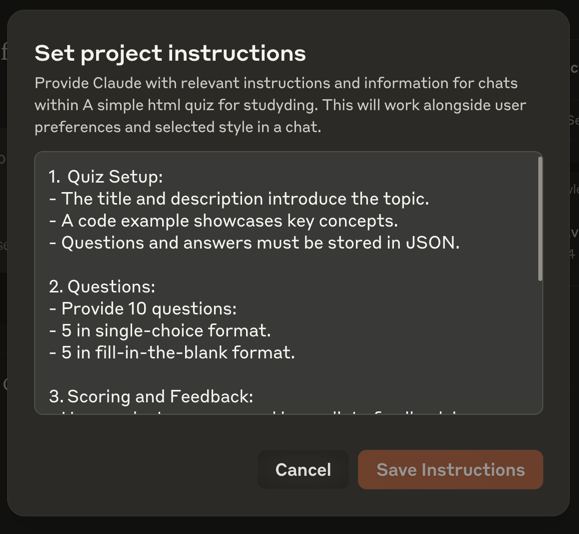
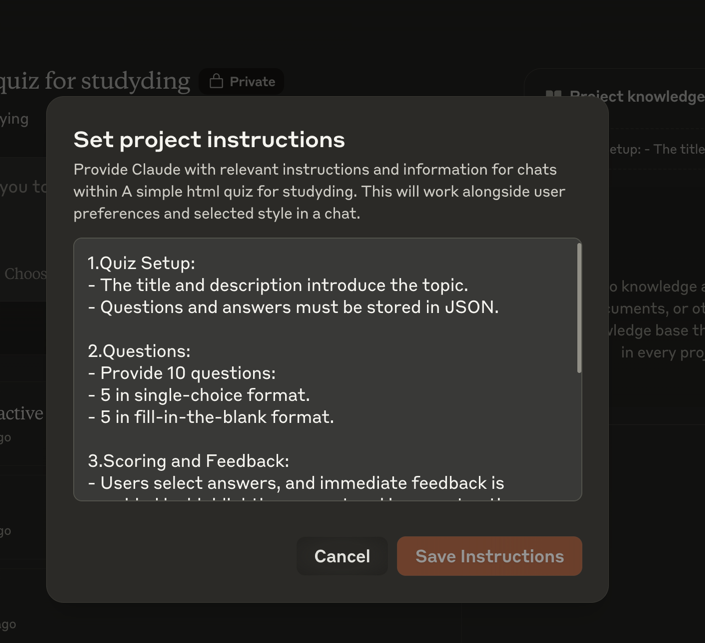
Use english test for example

diff --git a/index.html b/index.html
@@ -8,19 +8,12 @@
             padding: 20px;
             font-family: system-ui, -apple-system, sans-serif;
         }
-        .code-block {
-            background: #f5f5f5;
-            padding: 20px;
-            border-radius: 8px;
-            overflow-x: auto;
-            white-space: pre;
-            font-family: monospace;
-        }
         .question {
             margin: 20px 0;
             padding: 15px;
             border: 1px solid #ddd;
             border-radius: 8px;
+            background: #fff;
         }
         .option {
             margin: 10px 0;
@@ -28,6 +21,7 @@
             border: 1px solid #ddd;
             border-radius: 4px;
             cursor: pointer;
+            transition: background-color 0.3s;
         }
         .option:hover {
             background: #f0f0f0;
@@ -46,16 +40,17 @@
             padding: 15px;
             background: #e9ecef;
             border-radius: 8px;
+            text-align: center;
         }
         .fill-blank {
-            display: inline-block;
-            margin: 0 5px;
+            margin: 10px 0;
         }
         .fill-blank input {
-            width: 150px;
-            padding: 5px;
+            width: 200px;
+            padding: 8px;
             border: 2px solid #ddd;
             border-radius: 4px;
+            margin: 5px 0;
         }
         .check-answer {
             background: #007bff;
@@ -75,130 +70,117 @@
             border-radius: 4px;
             display: none;
         }
+        .hint {
+            color: #666;
+            font-style: italic;
+            margin: 5px 0;
+        }
     </style>
 </head>
 <body>
 <div class="container">
-    <h1>🎯 JavaScript Objects & Prototypes Quiz</h1>
-    <p>Test your understanding of JavaScript Objects, Prototypes, and Modern Class Syntax!</p>
-
-    <div id="code-example" class="code-block">
-class Animal {
-    constructor(name) {
-        this.name = name;
-    }
-
-    speak() {
-        return `${this.name} makes a sound`;
-    }
-}
-
-class Dog extends Animal {
-    constructor(name, breed) {
-        super(name);
-        this.breed = breed;
-    }
-
-    bark() {
-        return "Woof!";
-    }
-}
-
-const max = new Dog("Max", "Poodle");
-    </div>
+    <h1>📚 English Tenses Master Quiz</h1>
+    <p>Test your knowledge of English tenses with this interactive quiz!</p>
     <div id="questions"></div>
     <div id="score"></div>
 </div>
 
 <script>
     const quizData = {
+        "title": "English Tenses Master Quiz",
+        "description": "Test your understanding of English tenses and their usage!",
         "multipleChoice": [
             {
                 "id": 1,
-                "question": "Which notation is most commonly used to access object properties?",
+                "question": "Which tense is used in: 'I have been studying English for five years'?",
                 "options": [
-                    { "id": "a", "text": "Bracket notation" },
-                    { "id": "b", "text": "Dot notation" },
-                    { "id": "c", "text": "Arrow notation" },
-                    { "id": "d", "text": "Colon notation" }
+                    { "id": "a", "text": "Present Perfect" },
+                    { "id": "b", "text": "Present Perfect Continuous" },
+                    { "id": "c", "text": "Past Perfect" },
+                    { "id": "d", "text": "Past Continuous" }
                 ],
-                "correctAnswer": "b"
+                "correctAnswer": "b",
+                "explanation": "Present Perfect Continuous is used for actions that began in the past and continue until now."
             },
             {
                 "id": 2,
-                "question": "What is the main purpose of prototypes in JavaScript?",
+                "question": "Identify the tense: 'By the time she arrived, we had already left.'",
                 "options": [
-                    { "id": "a", "text": "To store private variables" },
-                    { "id": "b", "text": "To implement inheritance" },
-                    { "id": "c", "text": "To create multiple instances" },
-                    { "id": "d", "text": "To define static methods" }
+                    { "id": "a", "text": "Past Simple" },
+                    { "id": "b", "text": "Past Continuous" },
+                    { "id": "c", "text": "Past Perfect" },
+                    { "id": "d", "text": "Present Perfect" }
                 ],
-                "correctAnswer": "b"
+                "correctAnswer": "c",
+                "explanation": "Past Perfect is used for an action completed before another action in the past."
             },
             {
                 "id": 3,
-                "question": "In the code example above, what does 'super(name)' do?",
+                "question": "What tense shows a future plan: 'I am meeting John tomorrow'?",
                 "options": [
-                    { "id": "a", "text": "Creates a new instance" },
-                    { "id": "b", "text": "Calls the parent class constructor" },
-                    { "id": "c", "text": "Sets the name property directly" },
-                    { "id": "d", "text": "Returns the parent class" }
+                    { "id": "a", "text": "Present Continuous" },
+                    { "id": "b", "text": "Simple Present" },
+                    { "id": "c", "text": "Future Simple" },
+                    { "id": "d", "text": "Present Perfect" }
                 ],
-                "correctAnswer": "b"
+                "correctAnswer": "a",
+                "explanation": "Present Continuous can be used for fixed future arrangements."
             },
             {
                 "id": 4,
-                "question": "Which method checks if a property belongs to the object itself and not its prototype chain?",
+                "question": "Which sentence uses the Future Perfect tense?",
                 "options": [
-                    { "id": "a", "text": "hasOwnProperty()" },
-                    { "id": "b", "text": "instanceof" },
-                    { "id": "c", "text": "isPrototypeOf()" },
-                    { "id": "d", "text": "getPrototypeOf()" }
+                    { "id": "a", "text": "I will study tomorrow" },
+                    { "id": "b", "text": "I will have studied for six hours by midnight" },
+                    { "id": "c", "text": "I am going to study" },
+                    { "id": "d", "text": "I will be studying" }
                 ],
-                "correctAnswer": "a"
+                "correctAnswer": "b",
+                "explanation": "Future Perfect describes an action that will be completed before a specific time in the future."
             },
             {
                 "id": 5,
-                "question": "What's true about the 'extends' keyword in class declarations?",
+                "question": "What tense is: 'She was watching TV when the phone rang'?",
                 "options": [
-                    { "id": "a", "text": "It creates a new object" },
-                    { "id": "b", "text": "It implements interfaces" },
-                    { "id": "c", "text": "It sets up prototype inheritance" },
-                    { "id": "d", "text": "It copies all properties" }
+                    { "id": "a", "text": "Past Simple" },
+                    { "id": "b", "text": "Past Continuous" },
+                    { "id": "c", "text": "Past Perfect" },
+                    { "id": "d", "text": "Present Continuous" }
                 ],
-                "correctAnswer": "c"
+                "correctAnswer": "b",
+                "explanation": "Past Continuous is used for an action in progress when another action interrupted it."
             }
         ],
         "fillInBlank": [
             {
                 "id": 6,
-                "question": "To access a property using bracket notation, you write: user[_____]",
-                "correctAnswer": "key",
-                "hint": "It's often a variable containing the property name"
+                "question": "Complete with the correct form of 'to work': He _____ for this company since 2010. (Present Perfect)",
+                "correctAnswer": "has worked",
+                "hint": "Use Present Perfect for actions starting in the past and continuing to the present"
             },
             {
                 "id": 7,
-                "question": "The _____ keyword is used to define a new class in modern JavaScript.",
-                "correctAnswer": "class",
-                "hint": "It's the starting keyword for class declarations"
+                "question": "Use 'to study': When she called, I _____ for my exam. (Past Continuous)",
+                "correctAnswer": "was studying",
+                "hint": "Past Continuous describes an action in progress at a specific time in the past"
             },
             {
                 "id": 8,
-                "question": "The _____ method is called automatically when creating a new class instance.",
-                "correctAnswer": "constructor",
-                "hint": "It initializes new object instances"
+                "question": "Complete with 'to go': By next month, I _____ to ten different countries. (Future Perfect)",
+                "correctAnswer": "will have gone",
+                "hint": "Future Perfect is for actions that will be completed before a future time"
             },
             {
                 "id": 9,
-                "question": "Object._____(animal) returns true if the object inherits from animal.",
-                "correctAnswer": "isPrototypeOf",
-                "hint": "This method checks prototype chain membership"
+                "question": "Use 'to rain': It _____ all week. (Present Perfect Continuous)",
+                "correctAnswer": "has been raining",
+                "hint": "Present Perfect Continuous shows an ongoing action from the past until now"
             },
             {
                 "id": 10,
-                "question": "The expression Object._____(dog) === Dog.prototype evaluates to true.",
-                "correctAnswer": "getPrototypeOf",
-                "hint": "This method returns an object's prototype"
+                "question": "Complete with 'to finish': They _____ the project before the deadline. (Future Simple)",
+                "correctAnswer": "will finish",
+                "hint": "Future Simple uses 'will' + base form of the verb"
             }
         ]
     };
@@ -211,13 +193,14 @@ const max = new Dog("Max", "Poodle");
             const questionDiv = document.createElement('div');
             questionDiv.className = 'question';
             questionDiv.innerHTML = `
-                    <h3>Question ${q.id}: ${q.question}</h3>
-                    ${q.options.map(opt => `
-                        <div class="option" data-question="${q.id}" data-option="${opt.id}">
-                            ${opt.id.toUpperCase()}. ${opt.text}
-                        </div>
-                    `).join('')}
-                `;
+            <h3>Question ${q.id}: ${q.question}</h3>
+            ${q.options.map(opt => `
+                <div class="option" data-question="${q.id}" data-option="${opt.id}">
+                    ${opt.id.toUpperCase()}. ${opt.text}
+                </div>
+            `).join('')}
+            <div id="explanation-${q.id}" class="feedback"></div>
+        `;
             questionsContainer.appendChild(questionDiv);
         });
 
@@ -226,17 +209,19 @@ const max = new Dog("Max", "Poodle");
             const questionDiv = document.createElement('div');
             questionDiv.className = 'question';
             questionDiv.innerHTML = `
-                    <h3>Question ${q.id}: Fill in the blank</h3>
-                    <p>${q.question}</p>
-                    <div class="fill-blank">
-                        <input type="text" id="q${q.id}" placeholder="Type your answer">
-                        <p class="hint"><em>Hint: ${q.hint}</em></p>
-                        <button class="check-answer" onclick="checkFillBlank(${q.id})">Check Answer</button>
-                        <div id="feedback-${q.id}" class="feedback"></div>
-                    </div>
-                `;
+            <h3>Question ${q.id}: Fill in the blank</h3>
+            <p>${q.question}</p>
+            <div class="fill-blank">
+                <input type="text" id="q${q.id}" placeholder="Type your answer">
+                <p class="hint"><em>Hint: ${q.hint}</em></p>
+                <button class="check-answer" onclick="checkFillBlank(${q.id})">Check Answer</button>
+                <div id="feedback-${q.id}" class="feedback"></div>
+            </div>
+        `;
             questionsContainer.appendChild(questionDiv);
         });
+
+        updateScore();
 
         // Multiple Choice Event Listeners
         document.querySelectorAll('.option').forEach(option => {
@@ -244,25 +229,33 @@ const max = new Dog("Max", "Poodle");
                 const questionId = this.dataset.question;
                 const selectedOption = this.dataset.option;
                 const question = quizData.multipleChoice.find(q => q.id === parseInt(questionId));
+                const explanation = document.getElementById(`explanation-${questionId}`);
 
+                // Reset all options in this question
                 document.querySelectorAll(`[data-question="${questionId}"]`)
                     .forEach(opt => opt.classList.remove('correct', 'incorrect'));
 
                 if (selectedOption === question.correctAnswer) {
                     this.classList.add('correct');
+                    explanation.style.display = 'block';
+                    explanation.className = 'feedback correct';
+                    explanation.textContent = "Correct! " + question.explanation;
                     if (!this.dataset.scored) {
                         this.dataset.scored = 'true';
                         updateScore();
                     }
                 } else {
                     this.classList.add('incorrect');
-                    document.querySelector(`[data-question="${questionId}"][data-option="${question.correctAnswer}"]`)
-                        .classList.add('correct');
+                    const correctOption = document.querySelector(
+                        `[data-question="${questionId}"][data-option="${question.correctAnswer}"]`
+                    );
+                    correctOption.classList.add('correct');
+                    explanation.style.display = 'block';
+                    explanation.className = 'feedback incorrect';
+                    explanation.textContent = "Incorrect. " + question.explanation;
                 }
             });
         });
-
-        updateScore();
     }
 
     function checkFillBlank(questionId) {

diff --git a/readme.md b/readme.md
@@ -14,10 +14,11 @@
 ## Setup instructions
 ![instruction.png](img/instruction.png)
 
+you can customize the quiz by editing the instruction, in this example I use 10 questions of single-choice and fill-in-the-blank format.
+
 ```
 1.Quiz Setup:
 - The title and description introduce the topic.
-- A code example showcases key concepts.
 - Questions and answers must be stored in JSON.
 	
 2.Questions:
@@ -44,4 +45,3 @@
 
 ## Enjoy your quiz
 
-![result.png](img/result.png)
